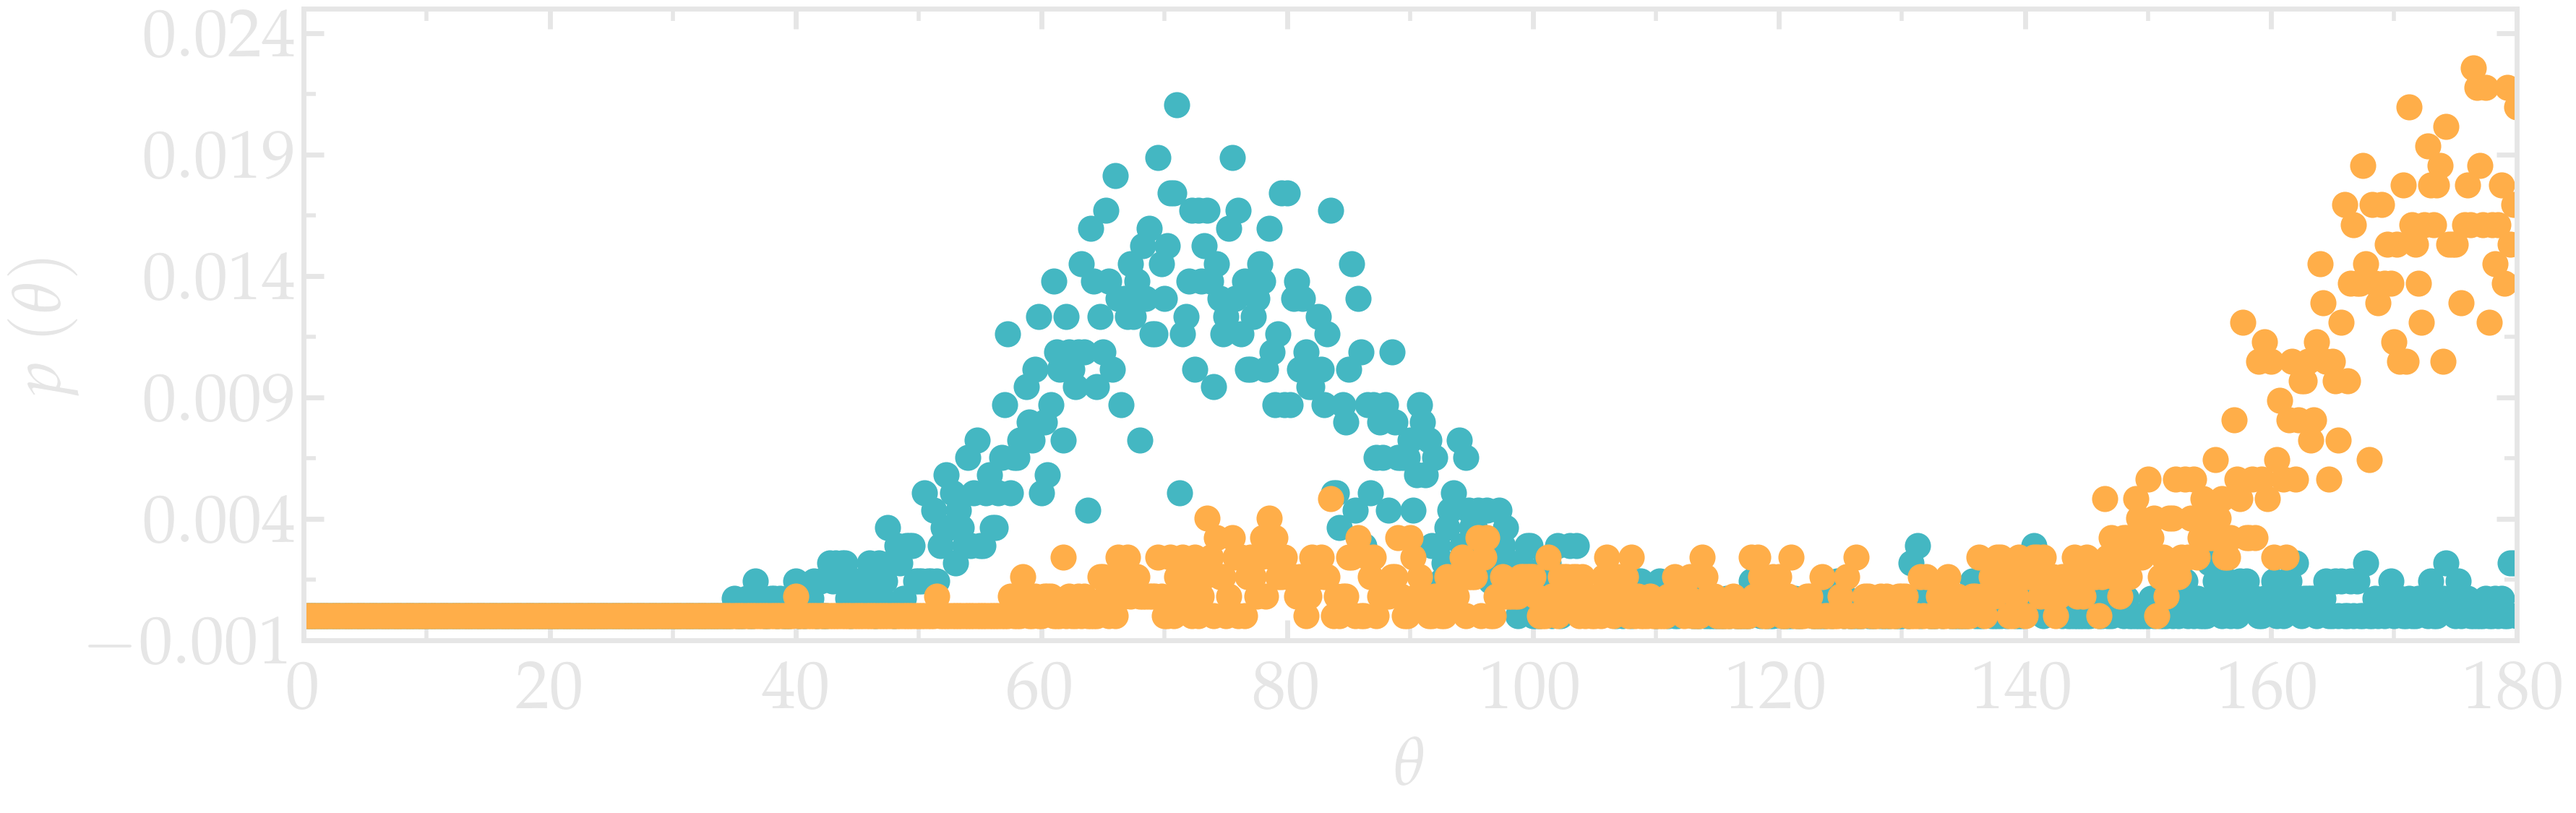
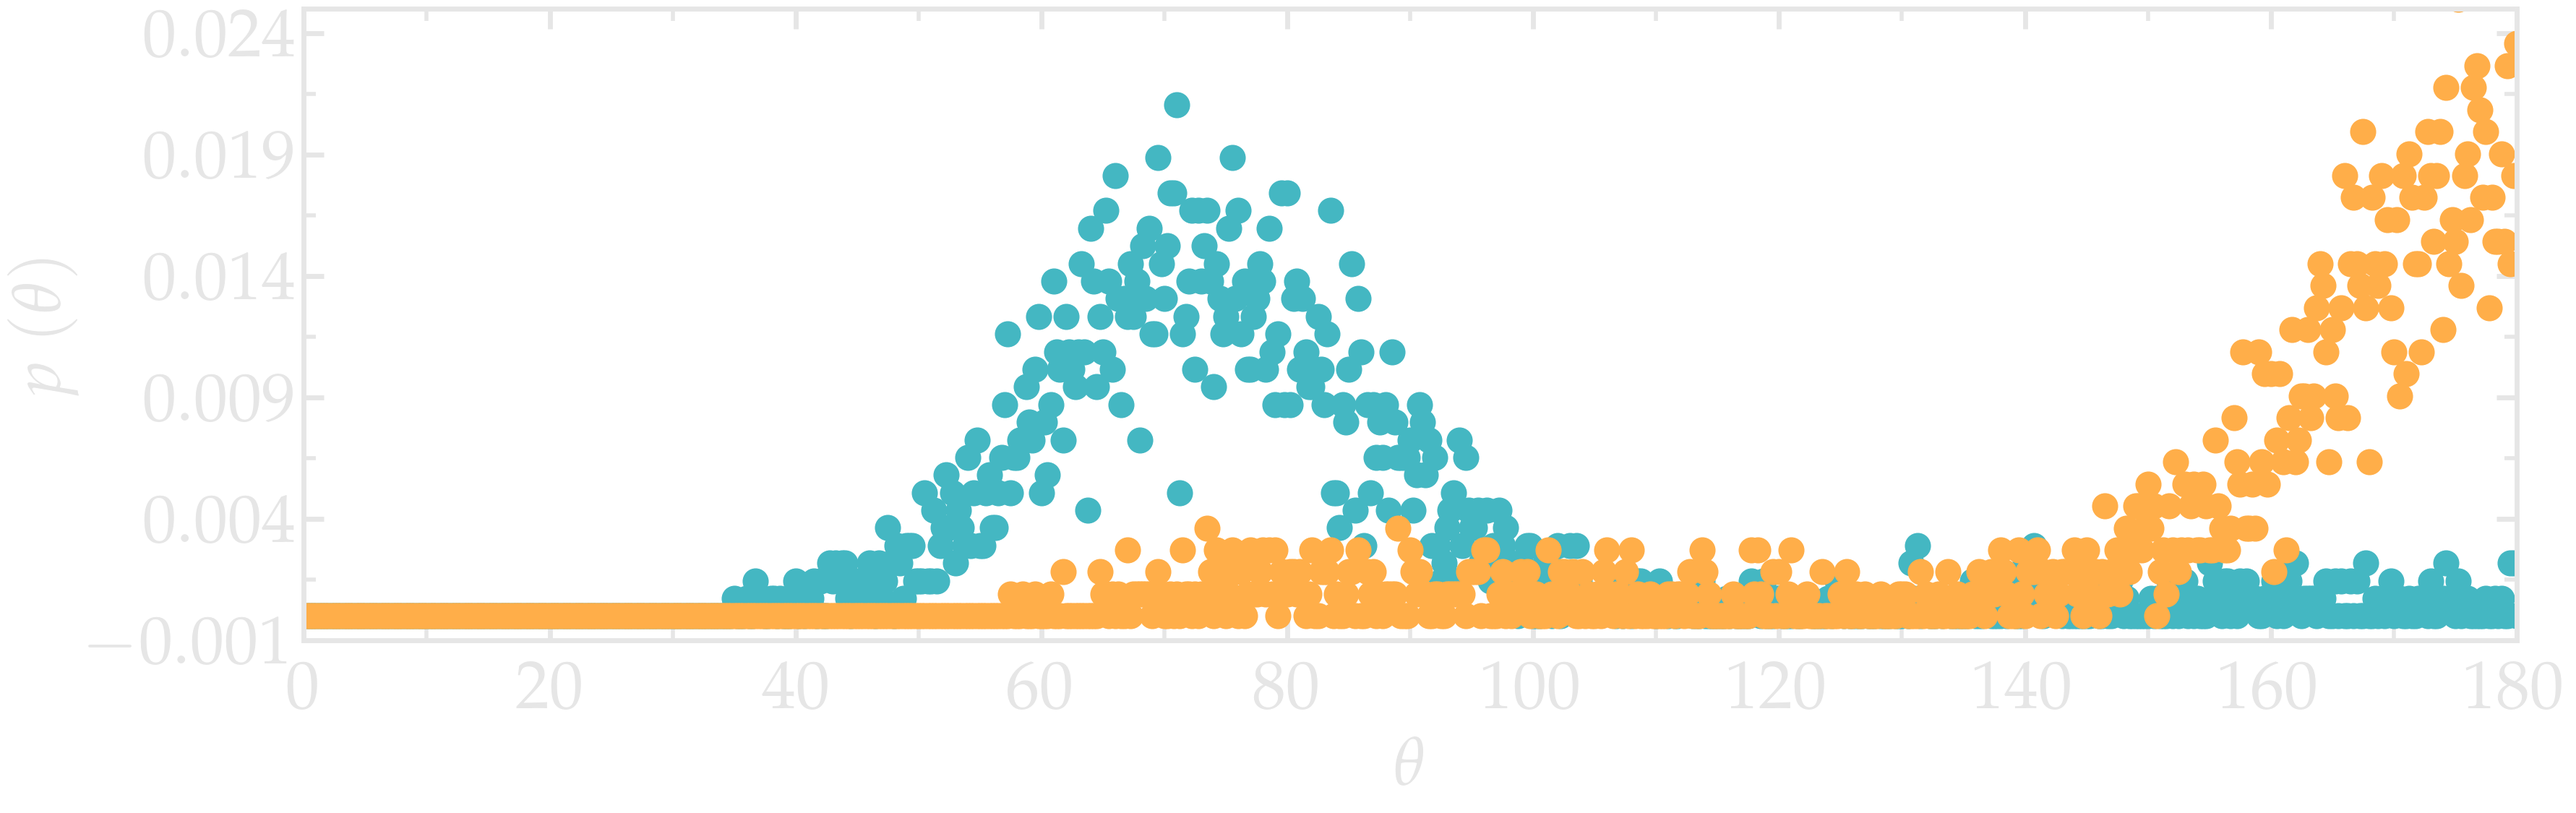
improved PEG tutorial

diff --git a/docs/sphinx/source/tutorials/level2/stretching-a-polymer.rst b/docs/sphinx/source/tutorials/level2/stretching-a-polymer.rst
@@ -525,8 +525,7 @@ Equilibrate the PEG-water system
 
 ..  container:: justify
 
-    Select 0 for the C-O-C angles of equilibrium
-    value :math:`\theta_0 = 109.7^\circ`.
+    Select 1 for the O-C-C-O dihedral.
 
 .. figure:: ../figures/level2/stretching-a-polymer/dihedral-distribution-light.png
     :alt: Angular distribution from molecular dynamics simulation in GROMACS
@@ -538,7 +537,7 @@ Equilibrate the PEG-water system
 
 .. container:: figurelegend
 
-    Figure: Angular distribution for the dihedral of the PEG molecules.
+    Figure: Angular distribution for the O-C-C-O dihedral of the PEG molecules.
 
 Stretch on the polymer
 ======================
@@ -552,7 +551,8 @@ Stretch on the polymer
 ..  container:: justify
 
     To leave space for the stretched PEG molecule, let us create an
-    elongated box:
+    elongated box of length :math:`6~\text{nm}`
+    along the *x* direction:
 
 ..  code-block:: bash
 
@@ -560,11 +560,12 @@ Stretch on the polymer
 
 ..  container:: justify
 
-    Select again *system* for both centering and output.
+    Select *system* for both centering and output.
 
 ..  container:: justify
 
-    Then, follow all the same steps as previously:
+    Then, follow the exact same steps as previously to solvate and equilibrate
+    the system:
 
 ..  code-block:: bash
 
@@ -579,10 +580,15 @@ Stretch on the polymer
     gmx grompp -f inputs/npt-peg-h2o.mdp -c nvt.gro -p topol.top -o npt -maxwarn 1
     gmx mdrun -deffnm npt -v -nt 8
 
+The index file
+--------------
+
 ..  container:: justify
 
     To apply a forcing to the ends of the PEG, one needs to create atom groups.
-    In GROMACS, this can be done using and index file. Create a new index file
+    Specificaly, we want to create two groups, each containing a single oxygen
+    atom from the edges of the PEG molecules (with ID 82 and 5). In GROMACS,
+    this can be done using and index file *.ndx*. Create a new index file
     named *index.ndx* using the *gmx make_ndx* command:
 
 ..  code-block:: bash
@@ -591,7 +597,7 @@ Stretch on the polymer
     
 ..  container:: justify
 
-    Then, create 2 new groups by typing the following lines
+    When prompted, type the following 4 lines to create 2 additional groups: 
     
 ..  code-block:: bash
 
@@ -603,7 +609,7 @@ Stretch on the polymer
 ..  container:: justify
 
     Then, type *q* for quitting. The index file *index.ndx*
-    contains 2 additional groups, with one oxygen atom each:
+    contains 2 additional groups named *End1* and *End2*:
 
 ..  code-block:: bw
 
@@ -620,10 +626,17 @@ Stretch on the polymer
     [ End2 ]
     5
 
+The input file
+--------------
+
 ..  container:: justify
 
-    Create a new input file named *stretching-peg-h2o.mdp*, and copy the following
-    lines in it:
+    Let us create an input file for the stretching of the PEG molecule.
+
+..  container:: justify
+
+    Create a new input file named *stretching-peg-h2o.mdp* within *inputs/*,
+    and copy the following lines in it:
 
 ..  code-block:: bw
 
@@ -675,7 +688,14 @@ Stretch on the polymer
     
 ..  container:: justify
 
-    Launch the simulation:
+    The force constant is requested along the *x* direction only (Y N N),
+    with a force constant :math:`k = 200~\text{kJ}~\text{mol}^{-1}~\text{nm}^{-1}`. 
+
+..  container:: justify
+
+    Launch the simulation using the *-n index.ndx* option for the *gmx grompp*
+    command to refer to the previously created index file, so that GROMACS
+    finds the *End1* and *End2* groups.
 
 ..  code-block:: bash
 
@@ -684,10 +704,46 @@ Stretch on the polymer
 
 ..  container:: justify
 
-    Here, the *-n index.ndx* command is used to refer to the previously created 
-    index file, so that GROMACS finds the *End1* and *End2* groups.
-    The *-px position.xvg* and *-pf force.xvg* are used 
-    to print positions and forces of the 2 end groups in files. 
+    Two data files named *stretching_pullf.xvg* and *stretching_pullx.xvg*
+    are created during the simulation, and contain respectively the
+    force and distance between the 2 groups *End1* and *End2* as a function
+    of time.
+
+.. figure:: ../figures/level2/stretching-a-polymer/pull-position-light.png
+    :alt: Pull position from molecular dynamics simulation in GROMACS
+    :class: only-light
+
+.. figure:: ../figures/level2/stretching-a-polymer/pull-position-dark.png
+    :alt: Pull position from molecular dynamics simulation in GROMACS
+    :class: only-dark
+
+.. container:: figurelegend
+
+    Figure: Distance between the two pulled groups *End1* and *End2* along the
+    *x* direction, :math:`\Delta x`,
+    as a function of time :math:`t`.
+
+..  container:: justify
+
+    It can be seen from the evolution of the distance between the groups,
+    :math:`\Delta x`, that the system reaches its equilibrium state after
+    approximately 20 pico-seconds.
+
+..  container:: justify
+
+    Let us probe the effect of the stretching on the structure of the PEG
+    by remeasuring the dihedral angle values:
+
+..  code-block:: bash
+
+    gmx mk_angndx -s stretching.tpr -hyd no -type dihedral
+    gmx angle -n angle.ndx  -f stretching-centered.xtc -od dihedral-distribution.xvg -binwidth 0.25 -type dihedral -b 20 
+
+..  container:: justify
+
+    Select 1 for the O-C-C-O dihedral. Here the option *-b 20* is used to disregard
+    the first 20 pico-seconds of the simulation during which the PEG has not 
+    reach is final length. 
 
 .. figure:: ../figures/level2/stretching-a-polymer/comparison-dihedral-distribution-light.png
     :alt: Angular distribution from molecular dynamics simulation in GROMACS
@@ -699,6 +755,14 @@ Stretch on the polymer
 
 .. container:: figurelegend
 
-    Figure: Angular distribution for the dihedral of the PEG molecules.
+    Figure: Angular distribution for the O-C-C-O dihedral of the PEG molecules,
+    comparing the unstretched (cyan) and stretched case (orange).
+
+..  container:: justify
+
+    The change in dihedral angles disribution reveals a configurational change of 
+    the polymer induced by the forcing. This transition is called gauche-trans,
+    where *gauche* and *trans* refer to possible state
+    for the PEG monomer :cite:`binder1995monte, liese2017hydration`.
 
 .. include:: ../../non-tutorials/accessfile.rst
